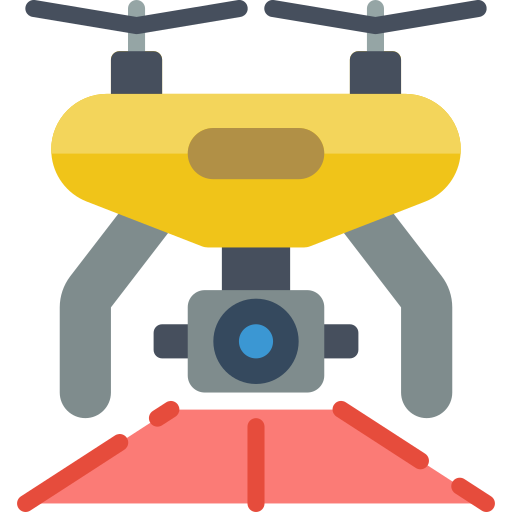
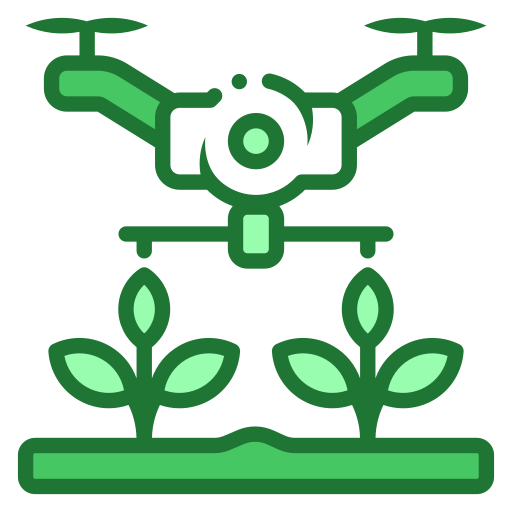
style: 이모지를 이미지 아이콘으로 교체 (자산·관제 대시보드·작업 배정·위험 구역)

diff --git a/project/src/main/resources/templates/page/leader/dashboard.html b/project/src/main/resources/templates/page/leader/dashboard.html
@@ -16,7 +16,7 @@
 <main class="dash-main">
   <div class="dash-title-row">
     <div>
-      <h1>🗺 관제 대시보드</h1>
+      <h1><img th:src="@{/img/dash-control.png}" alt="" class="dash-title-img"> 관제 대시보드</h1>
       <p>농지 작업을 조종사에게 배정하고 실시간 위치를 확인하세요.</p>
     </div>
   </div>
@@ -27,7 +27,7 @@
   <!-- ===== 요약 카드 (서버가 숫자 넣음) ===== -->
   <section class="dash-stats">
     <div class="dash-card dash-stat">
-      <span class="dash-stat-icon ready">🌱</span>
+      <span class="dash-stat-icon ready"><img th:src="@{/img/dash-ready.png}" alt="" class="dash-stat-img"></span>
       <div class="dash-stat-body">
         <small>미배정</small>
         <strong><th:block th:text="${readyCount}">0</th:block><span>건</span></strong>
@@ -35,7 +35,7 @@
       </div>
     </div>
     <div class="dash-card dash-stat">
-      <span class="dash-stat-icon assigned">⏳</span>
+      <span class="dash-stat-icon assigned"><img th:src="@{/img/dash-assigned.png}" alt="" class="dash-stat-img"></span>
       <div class="dash-stat-body">
         <small>배정</small>
         <strong><th:block th:text="${assignedCount}">0</th:block><span>건</span></strong>
@@ -43,7 +43,7 @@
       </div>
     </div>
     <div class="dash-card dash-stat">
-      <span class="dash-stat-icon progress">🚁</span>
+      <span class="dash-stat-icon progress"><img th:src="@{/img/dash-progress.png}" alt="" class="dash-stat-img"></span>
       <div class="dash-stat-body">
         <small>진행 중</small>
         <strong><th:block th:text="${progressCount}">0</th:block><span>건</span></strong>
@@ -51,7 +51,7 @@
       </div>
     </div>
     <div class="dash-card dash-stat">
-      <span class="dash-stat-icon completed">✅</span>
+      <span class="dash-stat-icon completed"><img th:src="@{/img/dash-done.png}" alt="" class="dash-stat-img"></span>
       <div class="dash-stat-body">
         <small>완료</small>
         <strong><th:block th:text="${completedCount}">0</th:block><span>건</span></strong>
@@ -124,7 +124,7 @@
     <!-- 작업 중인 농지 -->
     <section class="dash-card side-card">
     <div class="side-card-head">
-        <h2>🚁 작업 중인 농지</h2>
+        <h2><img th:src="@{/img/dash-progress.png}" alt="" class="dash-h-img"> 작업 중인 농지</h2>
         <span class="count-label"
               th:text="${#lists.size(inProgressLands)} + '개'">0개</span>
     </div>
@@ -179,7 +179,7 @@
       <!-- 미배정 농지 -->
       <section class="dash-card side-card">
         <div class="side-card-head">
-          <h2>📋 미배정 농지</h2>
+          <h2><img th:src="@{/img/farm-icon.png}" alt="" class="dash-h-img"> 미배정 농지</h2>
           <span class="count-label" th:text="${#lists.size(readyLands)} + '개'">0개</span>
         </div>
         <div class="side-body">
@@ -247,7 +247,7 @@
       <!-- 소속 조종사 -->
       <section class="dash-card side-card">
         <div class="side-card-head">
-          <h2>👨🌾 소속 조종사</h2>
+          <h2><img th:src="@{/img/team-icon.png}" alt="" class="dash-h-img"> 소속 조종사</h2>
           <span class="count-label" id="pilot-count" th:text="${#lists.size(pilots)} + '명'">0명</span>
         </div>
         <div class="side-body">

diff --git a/project/src/main/resources/static/css/style.css b/project/src/main/resources/static/css/style.css
@@ -14116,13 +14116,19 @@ body:has(.dash-header) > .pub-footer {
     position: relative;
 }
 
-/* (A) 요약 카드의 "내 드론 기체" 아이콘만 */
-.asset-pilot-stat-icon.drone .asset-icon-img {
-    width: 90%;
+/* (A) 요약 카드 아이콘 (드론 / 약제 / 정비 공통) */
+.asset-pilot-stat-icon .asset-stat-img {
+    display: block;
+    width: 80%;
     height: 80%;
-    left: 0%;      /* 키운 만큼(-12.5%) 좌우 중앙 정렬 */
-    top: -3%;    /* 위쪽으로 살짝 이동 (마이너스 값을 키울수록 위로 감) */
-    filter: brightness(0.65) saturate(1.3);
+    object-fit: contain;   /* 비율 유지 */
+}
+
+/* 카드 아이콘 배경 박스 제거 (이미지만 표시) */
+.asset-pilot-stat-icon.drone,
+.asset-pilot-stat-icon.chemical,
+.asset-pilot-stat-icon.maintenance {
+    background: transparent;
 }
 
 /* (B) 제목 옆(위쪽) 큰 아이콘만 */
@@ -15166,5 +15172,62 @@ html {
     flex-shrink: 0;
     width: 52px;
     height: 52px;
+    object-fit: contain;
+}
+
+
+/* ===== 단장 관제 대시보드 이모지 → 이미지 아이콘 ===== */
+
+/* 제목 옆 아이콘 */
+.dash-title-img {
+    width: 36px;
+    height: 36px;
+    object-fit: contain;
+    vertical-align: middle;
+    margin: -4px 6px 0 0;   /* 글자와 높이 맞춤 */
+}
+
+/* 카드·패널 제목 옆 작은 아이콘 */
+.dash-h-img {
+    width: 22px;
+    height: 22px;
+    object-fit: contain;
+    vertical-align: middle;
+    margin: -3px 4px 0 0;
+}
+
+/* 요약 카드 4개 아이콘 (원형 배경 안) */
+.dash-stat-img {
+    display: block;
+    width: 32px;
+    height: 32px;
+    object-fit: contain;
+}
+
+
+/* ===== 자산 표 '자산 유형' 칸 이미지 아이콘 ===== */
+.asset-type-cell {
+    display: inline-flex;
+    align-items: center;
+    gap: 6px;
+}
+
+.asset-type-img {
+    display: block;
+    width: 22px;
+    height: 22px;
+    object-fit: contain;
+}
+
+
+/* ===== 구역 분할 배정 카드 이미지 아이콘 ===== */
+.field-split-wrap .fs-summary-icon {
+    background: transparent;   /* 초록 배경 제거 (필요 없으면 이 줄 삭제) */
+}
+
+.fs-summary-img {
+    display: block;
+    width: 100%;
+    height: 100%;
     object-fit: contain;
 }

diff --git a/project/src/main/resources/templates/page/pilot/assetlist.html b/project/src/main/resources/templates/page/pilot/assetlist.html
@@ -33,7 +33,7 @@
   <!-- 요약 -->
   <section class="asset-pilot-summary" aria-label="내 자산 요약">
     <article class="asset-pilot-stat">
-      <div class="asset-pilot-stat-icon drone"><img th:src="@{/img/header-logo.png}" alt="" class="asset-icon-img"></div>
+      <div class="asset-pilot-stat-icon drone"><img th:src="@{/img/stat-drone.png}" alt="" class="asset-stat-img"></div>
       <div>
         <span>내 드론 기체</span>
         <strong th:text="${droneCount} + '대'">0대</strong>
@@ -41,7 +41,7 @@
       </div>
     </article>
     <article class="asset-pilot-stat">
-      <div class="asset-pilot-stat-icon chemical">🧪</div>
+      <div class="asset-pilot-stat-icon chemical"><img th:src="@{/img/stat-chemical.png}" alt="" class="asset-stat-img"></div>
       <div>
         <span>담당 약제 품목</span>
         <strong th:text="${chemicalCount} + '종'">0종</strong>
@@ -49,7 +49,7 @@
       </div>
     </article>
     <article class="asset-pilot-stat">
-      <div class="asset-pilot-stat-icon maintenance">🔧</div>
+      <div class="asset-pilot-stat-icon maintenance"><img th:src="@{/img/stat-maintenance.png}" alt="" class="asset-stat-img"></div>
       <div>
         <span>정비 필요</span>
         <strong th:text="${maintenanceCount} + '건'">0건</strong>
@@ -116,7 +116,12 @@
         </thead>
         <tbody>
           <tr th:each="a : ${assets}">
-            <td th:text="${a.typeLabel}">🚁 드론</td>
+            <td>
+              <span class="asset-type-cell">
+                <img th:src="@{${a.drone} ? '/img/stat-drone.png' : '/img/stat-chemical.png'}" alt="" class="asset-type-img">
+                <span th:text="${a.drone} ? '드론' : '약제'">드론</span>
+              </span>
+            </td>
             <td>
               <strong th:text="${a.name}">DJI Agras T40</strong>
               <small th:if="${!a.drone and a.subtitle != null and !#strings.isEmpty(a.subtitle)}"

diff --git a/project/src/main/resources/templates/page/leader/assetlist.html b/project/src/main/resources/templates/page/leader/assetlist.html
@@ -33,7 +33,7 @@
   <!-- 요약 -->
   <section class="asset-pilot-summary" aria-label="방제단 자산 요약">
     <article class="asset-pilot-stat">
-      <div class="asset-pilot-stat-icon drone">🚁</div>
+      <div class="asset-pilot-stat-icon drone"><img th:src="@{/img/stat-drone.png}" alt="" class="asset-stat-img"></div>
       <div>
         <span>등록 드론 기체</span>
         <strong th:text="${droneCount} + '대'">0대</strong>
@@ -41,7 +41,7 @@
       </div>
     </article>
     <article class="asset-pilot-stat">
-      <div class="asset-pilot-stat-icon chemical">🧪</div>
+      <div class="asset-pilot-stat-icon chemical"><img th:src="@{/img/stat-chemical.png}" alt="" class="asset-stat-img"></div>
       <div>
         <span>등록 약제 품목</span>
         <strong th:text="${chemicalCount} + '종'">0종</strong>
@@ -49,7 +49,7 @@
       </div>
     </article>
     <article class="asset-pilot-stat">
-      <div class="asset-pilot-stat-icon maintenance">🔧</div>
+      <div class="asset-pilot-stat-icon maintenance"><img th:src="@{/img/stat-maintenance.png}" alt="" class="asset-stat-img"></div>
       <div>
         <span>정비 확인 필요</span>
         <strong th:text="${maintenanceCount} + '건'">0건</strong>
@@ -126,7 +126,12 @@
         </thead>
         <tbody>
           <tr th:each="a : ${assets}">
-            <td th:text="${a.typeLabel}">🚁 드론</td>
+            <td>
+              <span class="asset-type-cell">
+                <img th:src="@{${a.drone} ? '/img/stat-drone.png' : '/img/stat-chemical.png'}" alt="" class="asset-type-img">
+                <span th:text="${a.drone} ? '드론' : '약제'">드론</span>
+              </span>
+            </td>
             <td>
               <strong th:text="${a.name}">DJI Agras T40</strong>
               <small th:if="${!a.drone and a.subtitle != null and !#strings.isEmpty(a.subtitle)}"

diff --git a/project/src/main/resources/templates/page/leader/task-assignment.html b/project/src/main/resources/templates/page/leader/task-assignment.html
@@ -43,7 +43,7 @@
   <section class="task-panel" th:if="${tab == 'assign'}">
     <article class="dash-card">
       <div class="dash-card-head task-map-head">
-        <h2>🌱 미배정 농지 목록 <span class="task-count" th:text="${readyTotal} + '건'">0건</span></h2>
+        <h2><img th:src="@{/img/farm-icon.png}" alt="" class="dash-h-img"> 미배정 농지 목록 <span class="task-count" th:text="${readyTotal} + '건'">0건</span></h2>
 
         <form class="task-search" th:action="@{/leader/task-assignment}" method="get">
           <input type="hidden" name="tab" value="assign">
@@ -110,7 +110,7 @@
          <!-- 구역 분할 배정 -->
         <div class="field-split-wrap fs-section" id="fs-section">
           <div class="fs-summary">
-            <div class="fs-summary-icon" aria-hidden="true">🗺</div>
+            <div class="fs-summary-icon" aria-hidden="true"><img th:src="@{/img/fs-split.png}" alt="" class="fs-summary-img"></div>
             <div class="fs-summary-copy">
               <strong>구역 분할 배정</strong>
               <span id="fs-target">위 목록에서 농지를 고르거나, 지도에서 직접 영역을 그려 주세요.</span>

diff --git a/project/src/main/resources/templates/page/common/hazards.html b/project/src/main/resources/templates/page/common/hazards.html
@@ -25,7 +25,7 @@
   <!-- ===== 요약 카드 4개 ===== -->
   <section class="dash-stats">
     <div class="dash-card dash-stat">
-      <span class="dash-stat-icon completed">📋</span>
+      <span class="dash-stat-icon completed"><img th:src="@{/img/hz-total.png}" alt="" class="dash-stat-img"></span>
       <div class="dash-stat-body">
         <small>전체 신고</small>
         <strong><th:block th:text="${totalCount}">0</th:block><span>건</span></strong>
@@ -49,7 +49,7 @@
       </div>
     </div>
     <div class="dash-card dash-stat">
-      <span class="dash-stat-icon ready">✅</span>
+      <span class="dash-stat-icon ready"><img th:src="@{/img/dash-done.png}" alt="" class="dash-stat-img"></span>
       <div class="dash-stat-body">
         <small>해소 완료</small>
         <strong><th:block th:text="${resolvedCount}">0</th:block><span>건</span></strong>
